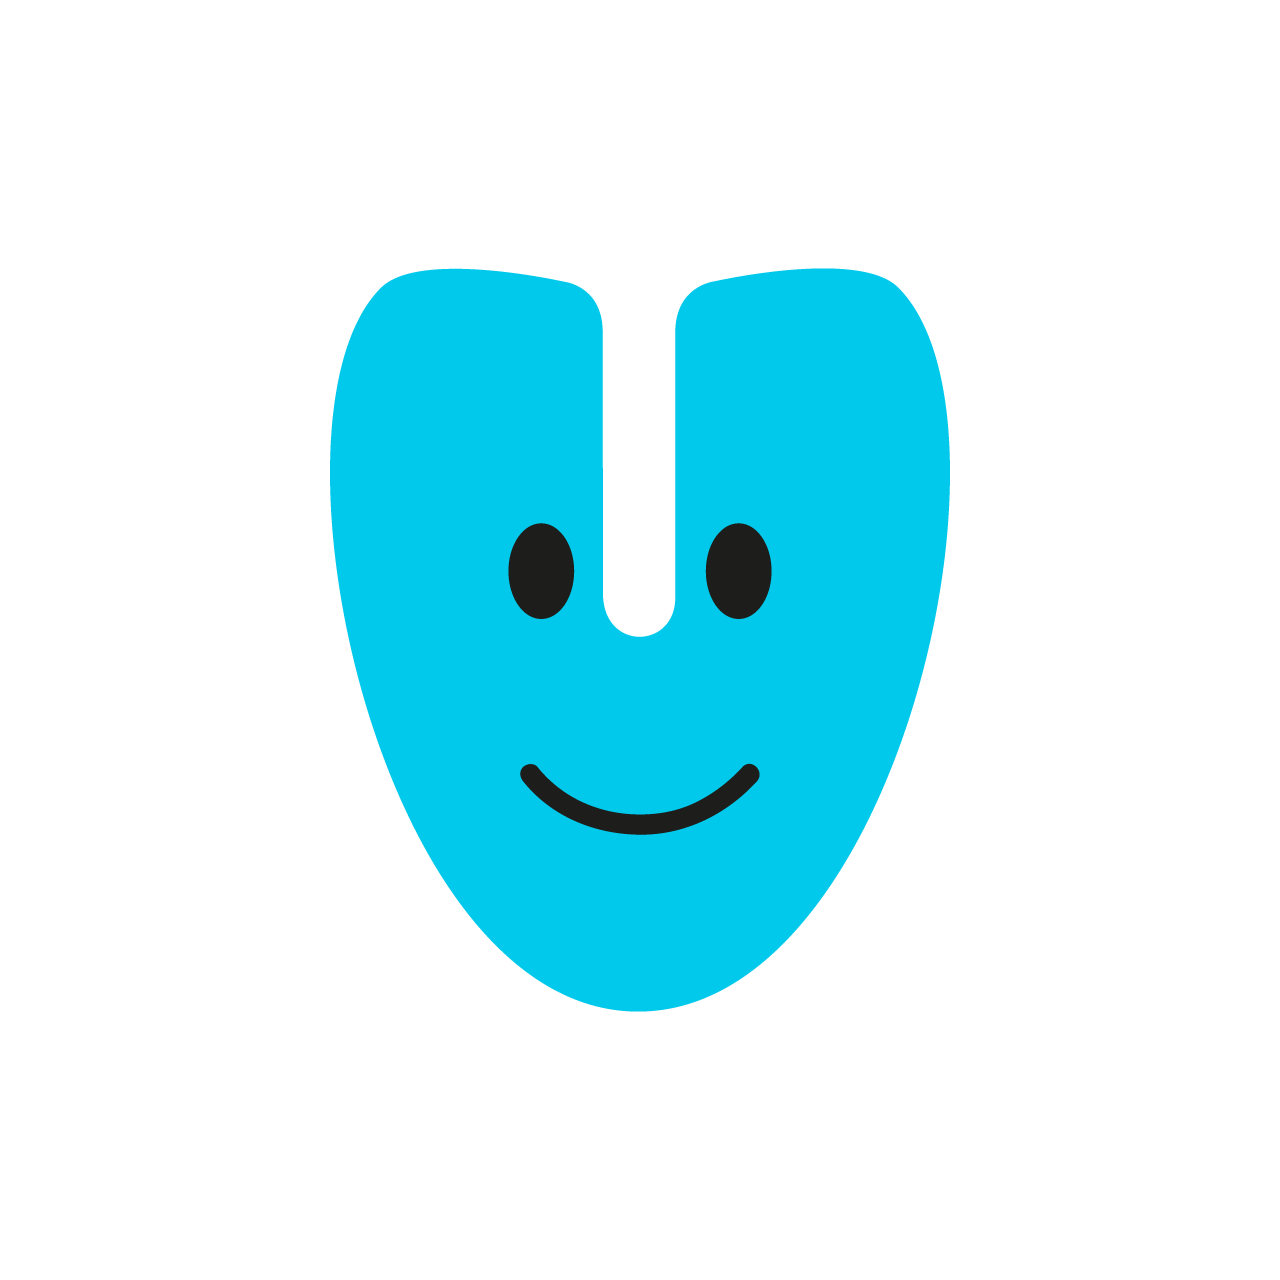
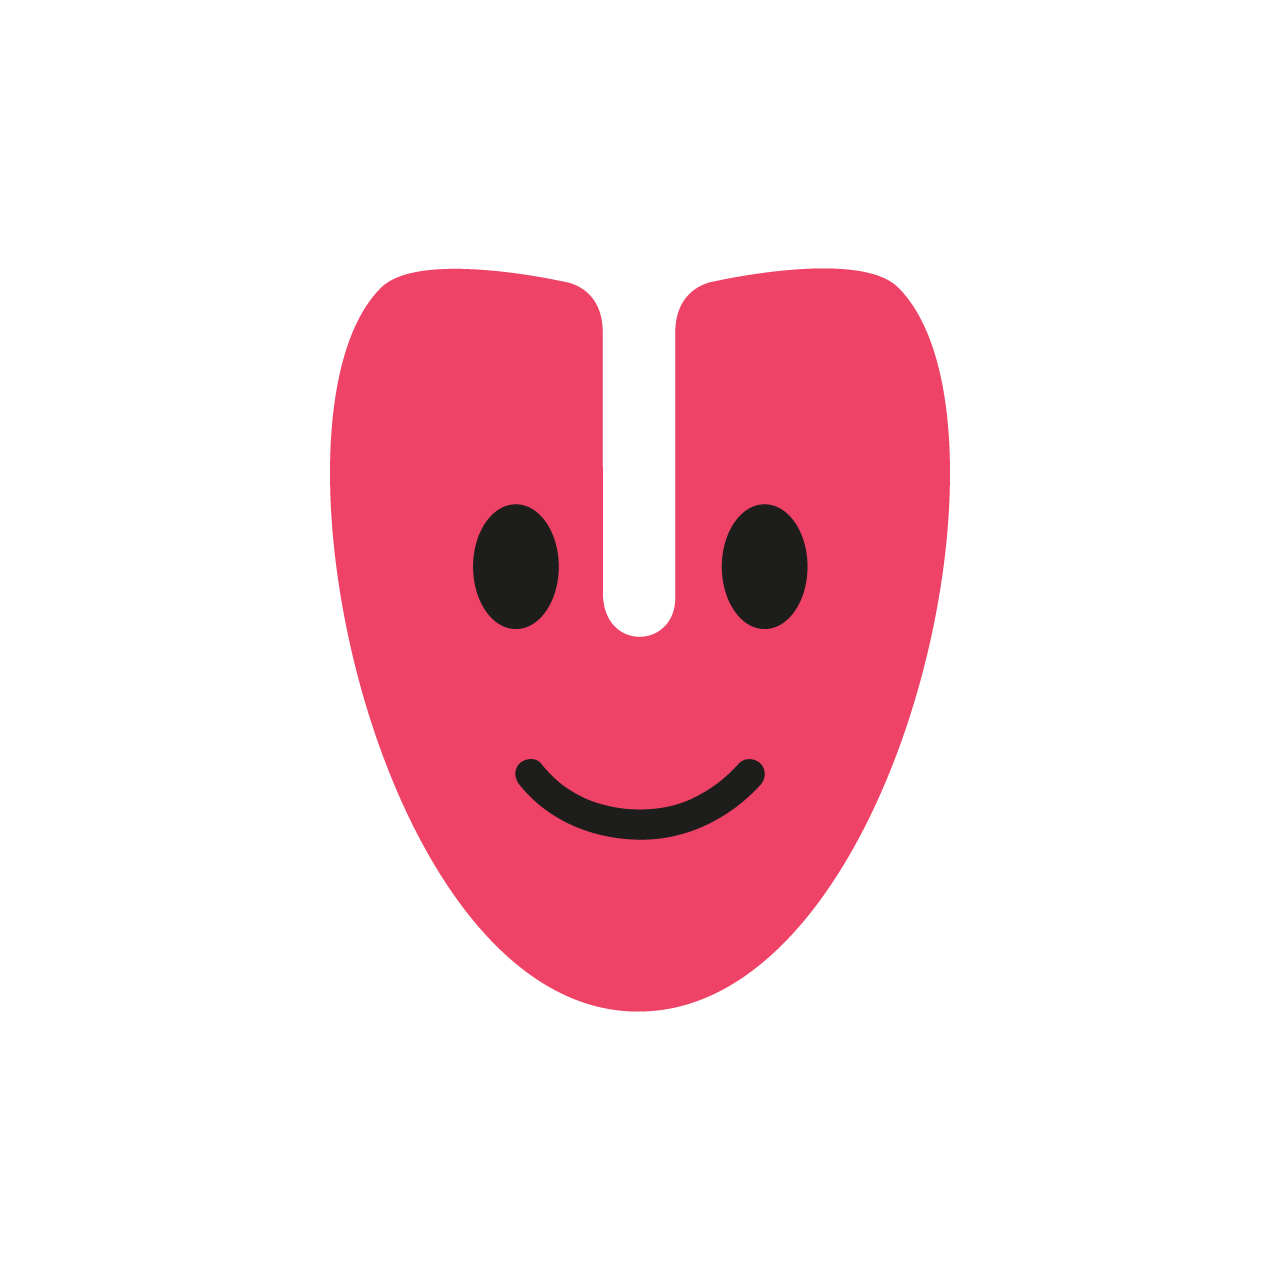
Change minitong and some styles of user view

Changed region(s): [[0.25, 0.1875, 0.75, 0.8125]]

diff --git a/app/assets/stylesheets/pages/_users.show.scss b/app/assets/stylesheets/pages/_users.show.scss
@@ -7,7 +7,7 @@ body.recommended_posts.index {
   }
   .hero-wrapper {
     width: 50%;
-    max-width: 650px;
+    max-width: 720px;
     margin: auto;
     padding-bottom: 2.5em;
   }
@@ -23,7 +23,7 @@ body.recommended_posts.index {
     margin: 50px 30px;
   }
   .hero-avatar {
-    margin-left: -100px;
+    margin-top: 45px;
   }
   .hero-title {
     font-weight: 700;
@@ -57,13 +57,14 @@ body.recommended_posts.index {
     margin: 50px 0;
     .tongs-num {
       display: inline-flex;
+      margin: 20px 30px;
     }
   }
   .hero-tongs {
     max-height: 80px;
     font-size: 20px;
     font-weight: bold;
-    padding: 17px 0;
+    padding: 12px 0;
     color: $font-black;
   }
   [data-react-class="UserFollowContainer"] {
